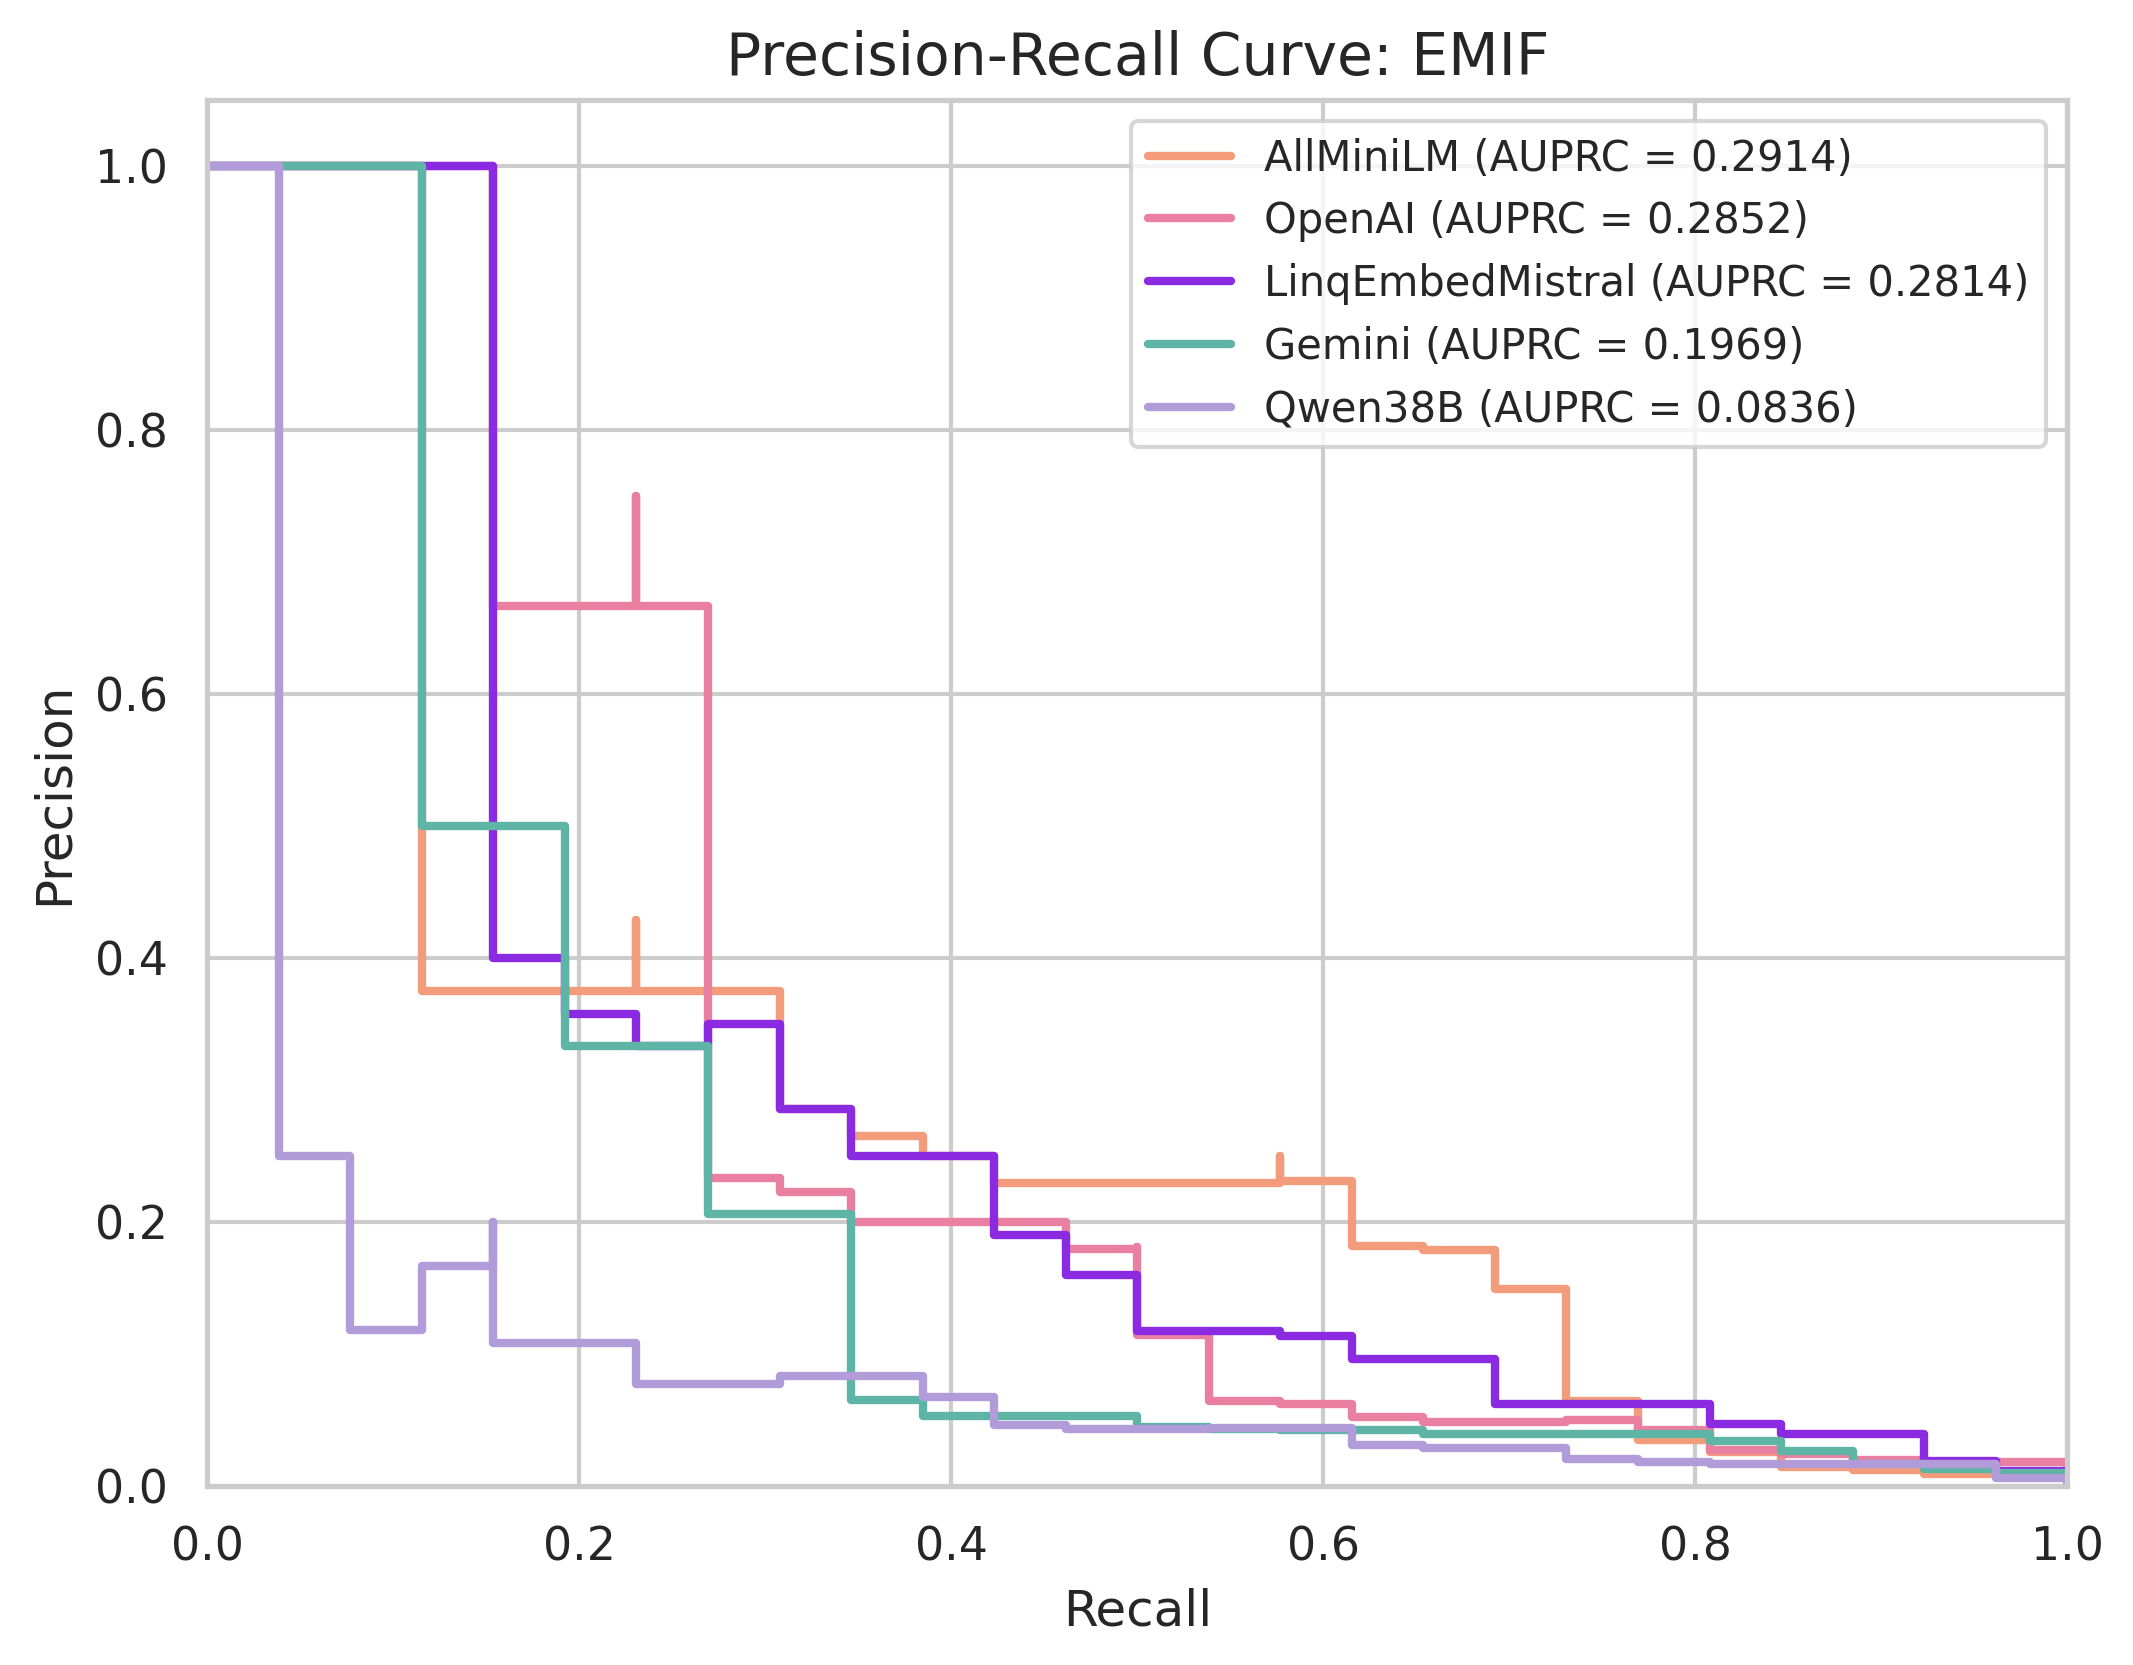
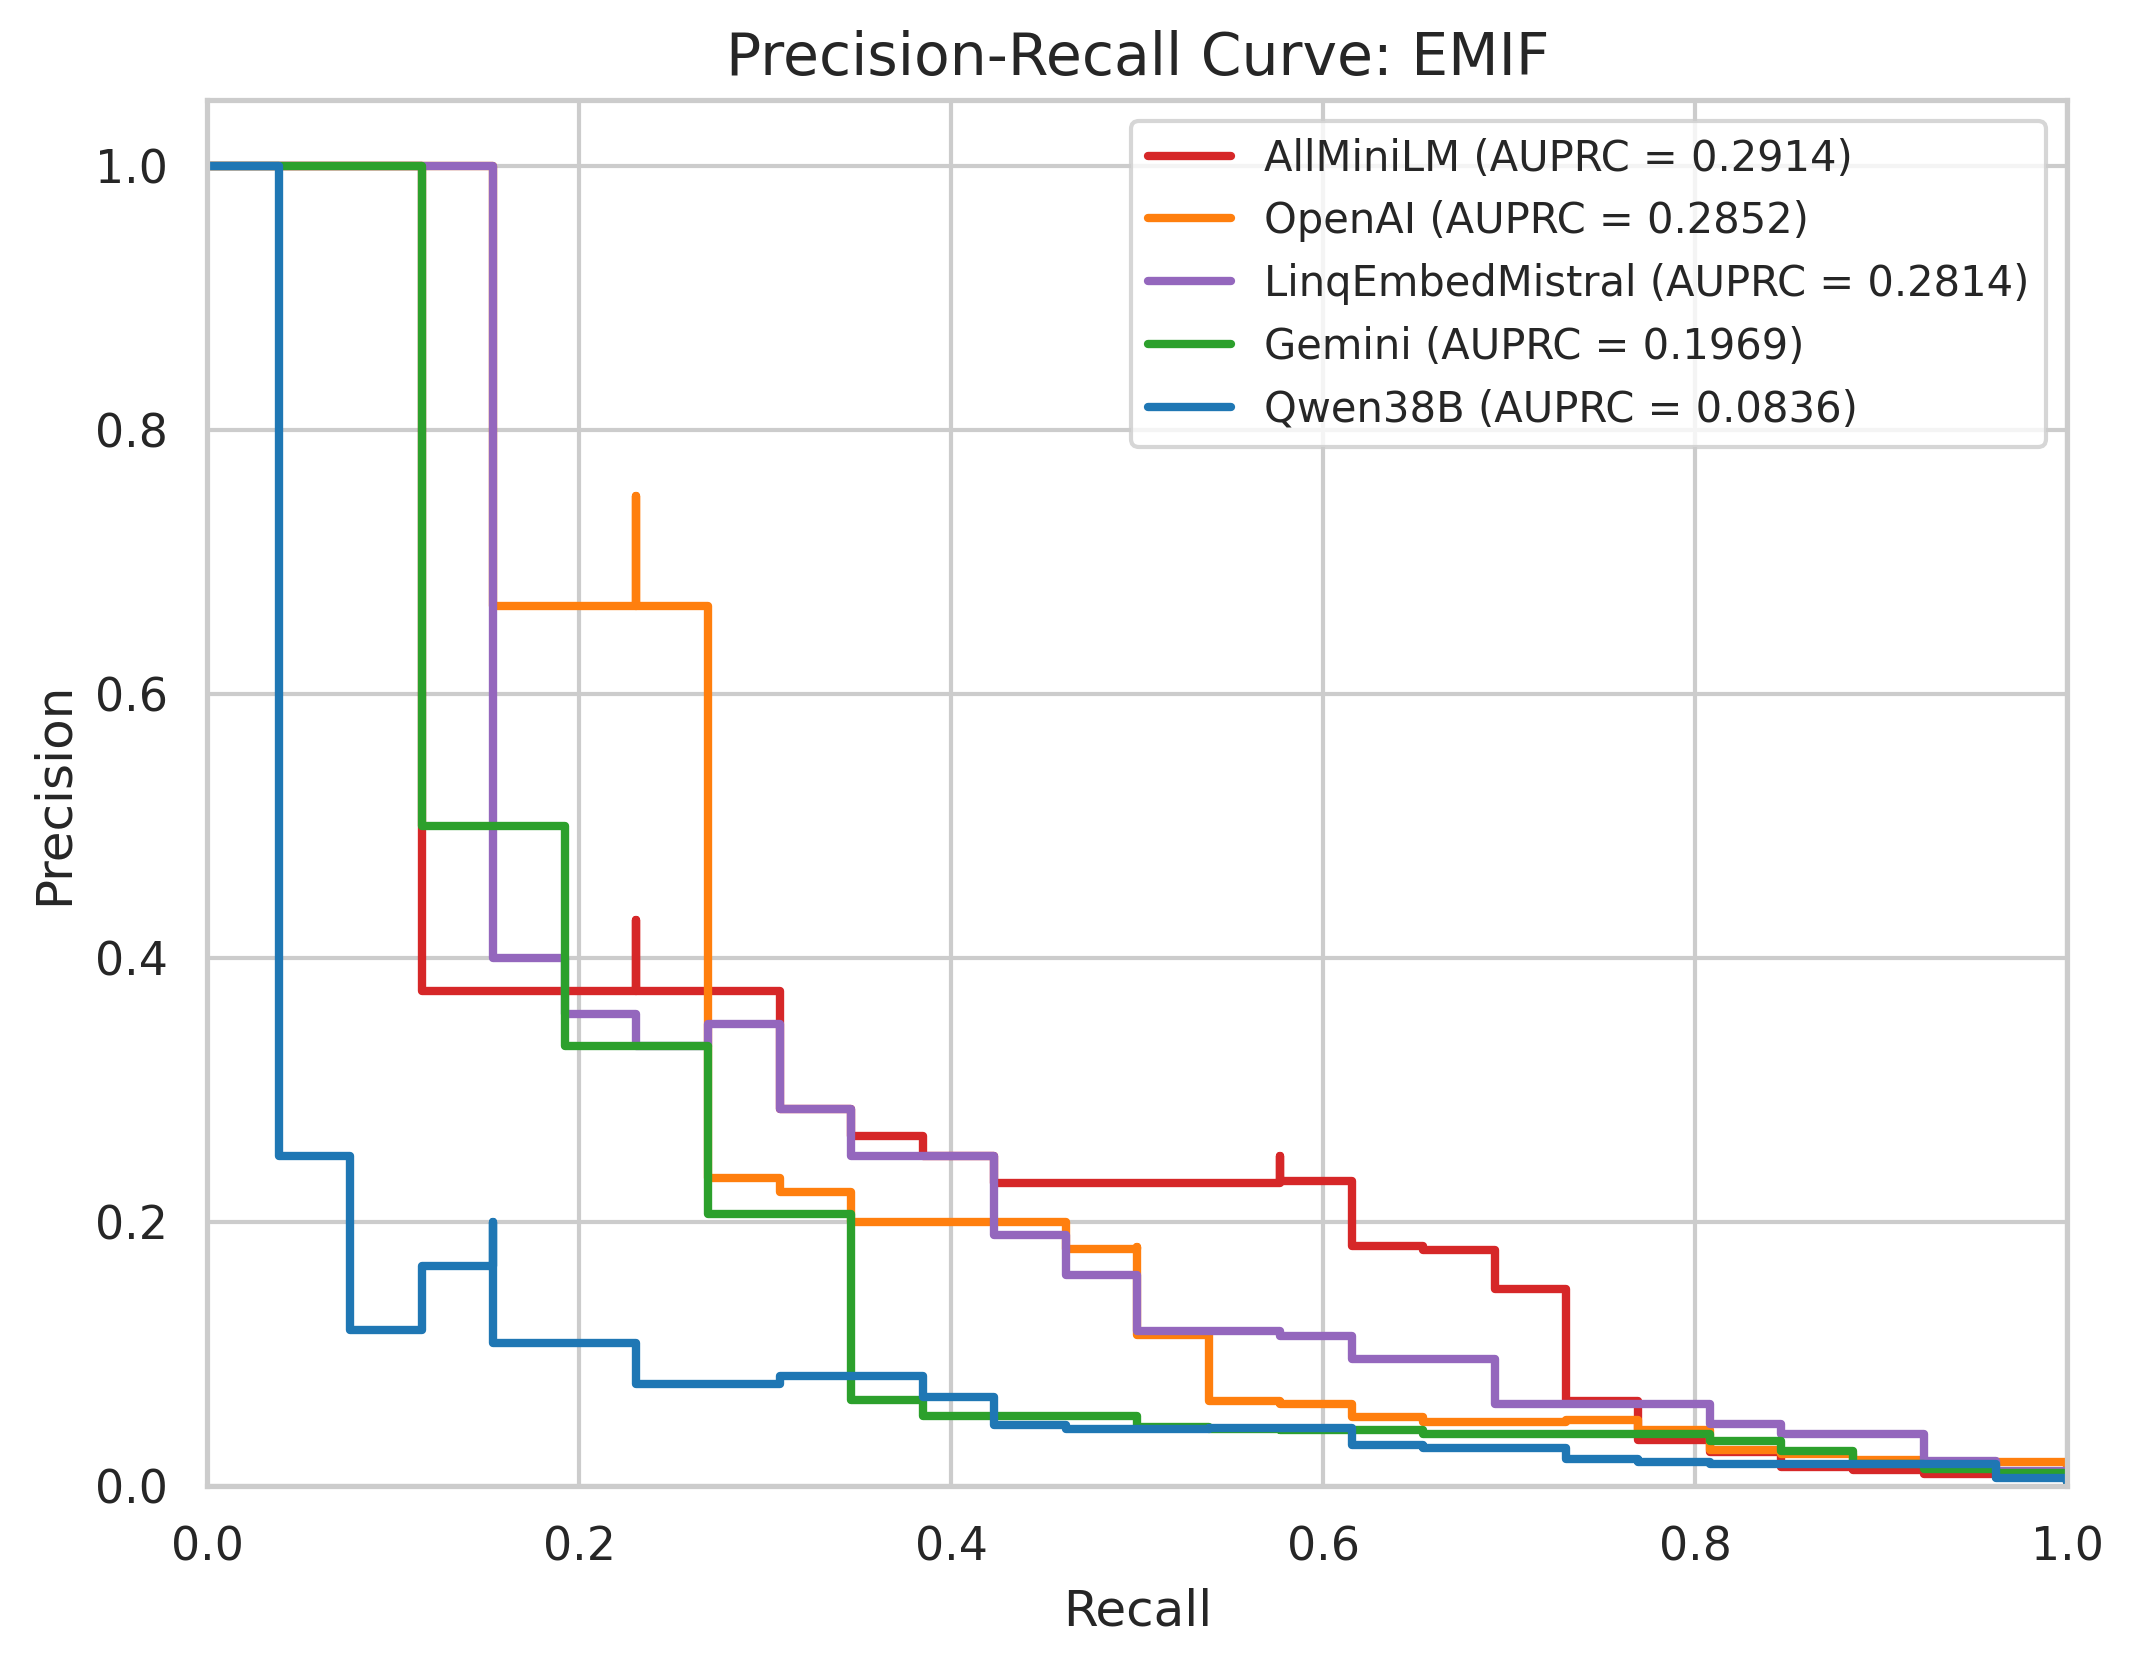
fix: imports

Changed region(s): [[0.0928, 0.0937, 0.9902, 0.9057], [0.526, 0.1249, 0.5879, 0.2498]]

diff --git a/adhteb/visualization.py b/adhteb/visualization.py
@@ -1,6 +1,6 @@
 import os
 import pickle
-from typing import List, Tuple
+from typing import List
 
 import matplotlib.pyplot as plt
 import seaborn as sns
@@ -18,7 +18,7 @@ def plot_prauc_curves_per_cohort(
     different vectorizers. Each plot will show the PR curves for all
     benchmarked models for a specific cohort.
 
-    Applies Seaborn styling, uses a custom color scheme, and sorts legend
+    Applies Seaborn styling, uses a good qualitative color scheme, and sorts legend
     labels by AUPRC in descending order.
 
     :param benchmarks: A list of Benchmark objects, each containing results
@@ -32,18 +32,25 @@ def plot_prauc_curves_per_cohort(
     if len(benchmarks) != len(labels):
         raise ValueError("The 'benchmarks' list and 'labels' list must have the same number of elements.")
 
-    sns.set_theme(style="whitegrid", palette="deep")
+    sns.set_theme(style="whitegrid") # Keep the whitegrid style
 
-    model_specific_colors = {
-        "Qwen38B": "#B19CD9",
-        "OpenAI": "#E980A2",
-        "Gemini": "#5EB5A6",
-        "AllMiniLM": "#F29C7B",
-        "LinqEmbedMistral": "#8A2BE2"
-    }
+    # --- Use a "good" qualitative color palette from Seaborn ---
+    # sns.color_palette("tab10") is a good default.
+    # Other good options: "Set1", "Dark2", "Paired", "viridis" (for sequential data, less ideal here)
+    # Ensure the palette has enough colors for all your labels.
+    num_models = len(labels)
+    # Generate a palette with enough distinct colors
+    good_colors = sns.color_palette("tab10", n_colors=num_models)
 
-    plot_palette = sns.color_palette([model_specific_colors.get(label, "#CCCCCC") for label in labels])
-    sns.set_palette(plot_palette)
+    # Map these colors to your labels to ensure consistency
+    # Create a dictionary to map each label to a specific color
+    # This ensures "Qwen38B" always gets the same color, regardless of its position in 'labels'
+    label_color_map = {label: good_colors[i % len(good_colors)] for i, label in enumerate(labels)}
+
+    # Ensure all models are plotted with their assigned color from this map
+    plot_palette_for_ordering = [label_color_map[label] for label in labels]
+    sns.set_palette(plot_palette_for_ordering) # Set the palette for matplotlib's default cycler
+
 
     all_cohort_labels = set()
     for benchmark in benchmarks:
@@ -82,12 +89,11 @@ def plot_prauc_curves_per_cohort(
                     precisions = precisions[::-1]
 
                 auprc = current_cohort_result.auc
-                color = plot_palette[i]
+                # Get the color from the established label-color map
+                color = label_color_map.get(label_name, "#CCCCCC") # Fallback to grey if label not in map
 
                 plot_data.append((auprc, label_name, recalls, precisions, color))
             else:
-                # Changed to a more informative logging if you want to keep track
-                # Consider using Python's `logging` module for more robust logging
                 print(
                     f"INFO: No PR data for {label_name} on cohort {cohort_label}. Skipping this model for this cohort's plot."
                 )
@@ -113,7 +119,7 @@ def plot_prauc_curves_per_cohort(
         for auprc, label_name, recalls, precisions, color in plot_data:
             ax.plot(recalls, precisions, drawstyle='steps-post',
                     label=f'{label_name} (AUPRC = {auprc:.4f})',
-                    color=color,
+                    color=color, # Use the color from the sorted plot_data
                     linewidth=2)
 
         ax.legend(loc='upper right', frameon=True, fontsize=10)
@@ -141,6 +147,7 @@ except FileNotFoundError as e:
 except Exception as e:
     print(f"An unexpected error occurred while loading pickle files: {e}")
     exit()
+
 
 # Create the list of Benchmark objects
 benchmarks = [results_qwen, results_openai, results_gemini, results_allminilm, results_linq]

diff --git a/adhteb/main.py b/adhteb/main.py
@@ -1,27 +1,32 @@
 import os
-from .benchmarking import Benchmark
-from .vectorizers import *
+from adhteb.benchmarking import Benchmark
+from adhteb.vectorizers import *
+
 import logging
 
 logging.basicConfig(
-    level=logging.INFO,  # Or DEBUG for more detailed logs
+    level=logging.INFO,  # Still allows INFO level from your logger
     format="%(asctime)s - %(name)s - %(levelname)s - %(message)s",
 )
-# Set the default logging level to WARNING for all loggers
-logging.getLogger().setLevel(logging.WARNING)
 
-# Set the logging level to INFO for the benchmarking class
+for noisy_logger in ["httpx", "openai", "urllib3"]:
+    logging.getLogger(noisy_logger).setLevel(logging.WARNING)
+
 logging.getLogger("benchmarking").setLevel(logging.INFO)
 
 # load the OpenAI API key from env
 openai_api_key = os.getenv("OPENAI_API_KEY")
+#gemini_api_key = os.getenv("GENAI_API_KEY")
+gemini_api_key = "AIzaSyBeOcNbzMVWZguULUvy3BLp3Xf0JbsdSYQ"
 
 openai_vectorizer = OpenAIVectorizer(api_key=openai_api_key)
-linq_vectorizer = LinqEmbedMistralVectorizer()
-mini_lm_vectorizer = AllMiniLMVectorizer()
-qwen_vectorizer = Qwen38BVectorizer()
+gemini_vectorizer = GeminiVectorizer(api_key=gemini_api_key)
 
-vectorizers = [mini_lm_vectorizer]
+#linq_vectorizer = LinqEmbedMistralVectorizer()
+#mini_lm_vectorizer = AllMiniLMVectorizer()
+#qwen_vectorizer = Qwen38BVectorizer()
+
+vectorizers = [gemini_vectorizer]
 
 for vectorizer in vectorizers:
     print(f"Running benchmark for {vectorizer.model_name}...")
@@ -29,6 +34,7 @@ for vectorizer in vectorizers:
     benchmark.run()
     print(benchmark.results_summary())
     benchmark.results_geras.save_pr_curve()
-    benchmark.results_a4.save_pr_curve()
+    benchmark.results_emif.save_pr_curve()
     benchmark.results_prevent_dementia.save_pr_curve()
-    benchmark.results_aibl.save_pr_curve()
+    benchmark.results_prevent_ad.save_pr_curve()
+    benchmark.save(f'results/{vectorizer.model_name}.pkl')

diff --git a/adhteb/benchmarking.py b/adhteb/benchmarking.py
@@ -4,7 +4,6 @@ import os
 import pickle
 import copy
 import tempfile
-from io import StringIO
 
 import pandas as pd
 import numpy as np
@@ -15,9 +14,9 @@ from typing import List
 from cryptography.fernet import Fernet
 from tabulate import tabulate
 
-from .leaderboard import LeaderboardEntry, publish_entry
-from .vectorizers import Vectorizer, GeminiVectorizer, OpenAIVectorizer  # Import specific vectorizers for batching
-from .results import BenchmarkResult
+from adhteb.leaderboard import LeaderboardEntry, publish_entry
+from adhteb.vectorizers import Vectorizer, GeminiVectorizer, OpenAIVectorizer
+from adhteb.results import BenchmarkResult
 
 
 class Benchmark:

diff --git a/adhteb/leaderboard.py b/adhteb/leaderboard.py
@@ -4,7 +4,7 @@ import requests
 from pydantic import BaseModel
 from typing import List
 
-from .results import BenchmarkResult
+from adhteb.results import BenchmarkResult
 
 logger = logging.getLogger(__name__)
 

diff --git a/adhteb/results.py b/adhteb/results.py
@@ -1,6 +1,5 @@
 from typing import List
 
-from matplotlib import pyplot as plt
 from pydantic import BaseModel
 from sklearn.metrics import auc
 
